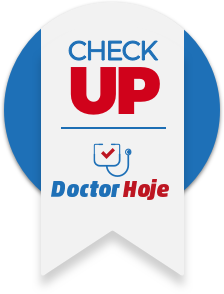
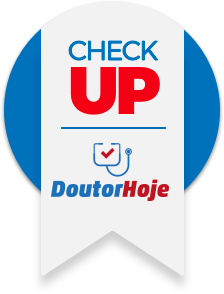
Doctor to Doutor
Troquei imagens e termos no site, só falta alterar nas controllers.

diff --git a/resources/views/agendamentos/minha-conta.blade.php b/resources/views/agendamentos/minha-conta.blade.php
@@ -1,6 +1,6 @@
 @extends('layouts.base')
 
-@section('title', 'DoctorHj: Minha Conta')
+@section('title', 'DoutorHj: Minha Conta')
 
 @push('scripts')
 
@@ -414,8 +414,8 @@
                                                     <p class="titulo">Aproveite seu desconto!</p>
                                                     <p class="texto">Você possui um cupom que garante <strong>10% de
                                                             desconto</strong> no seu primeiro agendamento feito pelo
-                                                        site Doctor Hoje. Aproveite, é por tempo limitado. Na tela de
-                                                        finalização de compra insira o código: <strong>DOCTOR10</strong>
+                                                        site Doutor Hoje. Aproveite, é por tempo limitado. Na tela de
+                                                        finalização de compra insira o código: <strong>DOuTOR10</strong>
                                                     </p>
                                                     <button type="button" class="close-div btn btn-secondary" title="Apagar mensagem">
                                                         <i class="fa fa-trash" aria-hidden="true"></i></button>
@@ -496,8 +496,8 @@
                             <div class="tab-pane fade" id="v-pills-sugestoes" role="tabpanel" aria-labelledby="v-pills-settings-tab">
                                 <div class="row">
                                     <div class="col-md-12 col-lg-6">
-                                        <span class="label-titulo">Avalie o Doctor Hoje</span>
-                                        <p>Deixe sua avaliação e nos ajude a deixar o Doctor Hoje melhor ainda.</p>
+                                        <span class="label-titulo">Avalie o Doutor Hoje</span>
+                                        <p>Deixe sua avaliação e nos ajude a deixar o Doutor Hoje melhor ainda.</p>
                                         <p>Dê uma nota de 1 a 5 estrelas para cada tópico abaixo, sendo 1 para
                                             péssimo e
                                             5 para excelente.</p>
@@ -579,7 +579,7 @@
                                     </div>
                                     <div class="col-md-12 col-lg-6">
                                         <span class="label-titulo">Mais alguma sugestão?</span>
-                                        <p>Deixe sua avaliação e nos ajude a deixar o Doctor Hoje melhor ainda.</p>
+                                        <p>Deixe sua avaliação e nos ajude a deixar o Doutor Hoje melhor ainda.</p>
                                         <form>
                                             <div class="form-group">
                                                 <textarea class="form-control" id="textareaSugestao" rows="6"></textarea>
@@ -594,7 +594,7 @@
 
                             <div class="tab-pane fade" id="v-pills-sair" role="tabpanel" aria-labelledby="v-pills-settings-tab">
                                 <div class="itens-sair">
-                                    <span class="label-titulo">Obrigado por usar o Doctor Hoje</span>
+                                    <span class="label-titulo">Obrigado por usar o Doutor Hoje</span>
                                 </div>
                                 <div class="itens-sair">
                                     <img src="/libs/home-template/img/doctor-hoje-notebook.png" alt="">

diff --git a/resources/views/auth/login.blade.php b/resources/views/auth/login.blade.php
@@ -1,6 +1,6 @@
 @extends('layouts.base')
 
-@section('title', 'DoctorHJ: Login')
+@section('title', 'DoutorHJ: Login')
 
 @push('scripts')
 
@@ -153,7 +153,7 @@
                                         <input type="checkbox" class="form-check-input" id="termoCheck" required="required">
                                         <label class="form-check-label" for="termoCheck">Declaro que li e concordo com
                                             os <a href="#" data-toggle="modal" data-target="#modalTermos">termos de uso
-                                                do Doctor Hoje</a></label>
+                                                do Doutor Hoje</a></label>
                                     </div>
                                     <div class="form-check fc-checkbox">
                                         <input type="checkbox" class="form-check-input" id="termoAnuidade" required="required">
@@ -191,7 +191,7 @@
                     if ($('#inputEmailTelefone').val().length < 15) {
                         swal(
                             {
-                                title: '<div class="tit-sweet tit-error"><i class="fa fa-times-circle" aria-hidden="true"></i> DoctorHoje Informa:</div>',
+                                title: '<div class="tit-sweet tit-error"><i class="fa fa-times-circle" aria-hidden="true"></i> DoutorHoje Informa:</div>',
                                 text: 'O telefone informado não é válido'
                             }
                         );
@@ -227,7 +227,7 @@
 
                                 swal(
                                     {
-                                        title: '<div class="tit-sweet tit-error"><i class="fa fa-times-circle" aria-hidden="true"></i> DoctorHoje Informa:</div>',
+                                        title: '<div class="tit-sweet tit-error"><i class="fa fa-times-circle" aria-hidden="true"></i> DoutorHoje Informa:</div>',
                                         text: result.mensagem
                                     }
                                 );

diff --git a/resources/views/includes/checkup-section-landing.blade.php b/resources/views/includes/checkup-section-landing.blade.php
@@ -25,7 +25,7 @@
                                 </div>
                                 <div class="col-md-4">
                                     <p class="vlr-drhj">R$ 350,00</p>
-                                    <p>Valor DoctorHJ</p>
+                                    <p>Valor DoutorHJ</p>
                                 </div>
                                 <div class="col-md-3">
                                     <p class="txtPorcentagem">Economize</p>
@@ -63,7 +63,7 @@
                                 </div>
                                 <div class="col-md-4">
                                     <p class="vlr-drhj">R$ 438,00</p>
-                                    <p>Valor DoctorHJ</p>
+                                    <p>Valor DoutorHJ</p>
                                 </div>
                                 <div class="col-md-3">
                                     <p class="txtPorcentagem">Economize</p>
@@ -113,7 +113,7 @@
                                 </div>
                                 <div class="col-md-4">
                                     <p class="vlr-drhj">R$ {{ number_format( $checkupMasculino->itemCheckups->sum('vl_com_checkup'),  2, ',', '.')  }}</p>
-                                    <p>Valor DoctorHJ</p>
+                                    <p>Valor DoutorHJ</p>
                                 </div>
                                 <div class="col-md-3">
                                     <p class="txtPorcentagem">Economize</p>
@@ -151,7 +151,7 @@
                                 </div>
                                 <div class="col-md-4">
                                     <p class="vlr-drhj">R$ {{ number_format( $checkupFeminino->itemCheckups->sum('vl_com_checkup'),  2, ',', '.')  }}</p>
-                                    <p>Valor DoctorHJ</p>
+                                    <p>Valor DoutorHJ</p>
                                 </div>
                                 <div class="col-md-3">
                                     <p class="txtPorcentagem">Economize</p>

diff --git a/resources/views/checkup/resultado.blade.php b/resources/views/checkup/resultado.blade.php
@@ -1,5 +1,5 @@
 @extends('layouts.base')
-@section('title', 'DoctorHoje: Resultado')
+@section('title', 'DoutorHoje: Resultado')
 
 @push('scripts')
 	<script>
@@ -96,11 +96,11 @@
                                                           <span>R$ {{$checkup['total_vl_mercado']}}</span>
                                                       </div>
                                                       <div class="drhj">
-                                                          <p>Procedimentos individuais no Doctor Hoje</p>
+                                                          <p>Procedimentos individuais no Doutor Hoje</p>
                                                           <span>R$ {{$checkup['total_vl_individual']}}</span>
                                                       </div>
                                                       <div class="checkup">
-                                                          <p>Valor do Checkup DoctorHJ</p>
+                                                          <p>Valor do Checkup DoutorHJ</p>
                                                           <span>R$ {{$checkup['total_com_checkup']}}</span>
                                                           
                                                           <input type="hidden" id="vl_total_checkup" name="vl_total_checkup" value="{{ $checkup['total_com_checkup'] }}">

diff --git a/resources/views/itemmenus/index.blade.php b/resources/views/itemmenus/index.blade.php
@@ -1,6 +1,6 @@
 @extends('layouts.master')
 
-@section('title', 'Doctor HJ: Itens de Menu')
+@section('title', 'Doutor HJ: Itens de Menu')
 
 @section('container')
 <div class="container-fluid">
@@ -8,7 +8,7 @@
 	<div class="row">
 		<div class="col-sm-12">
 			<div class="page-title-box">
-				<h4 class="page-title">Doctor HJ</h4>
+				<h4 class="page-title">Doutor HJ</h4>
 				<ol class="breadcrumb float-right">
 					<li class="breadcrumb-item"><a href="/">Home</a></li>
 					<li class="breadcrumb-item"><a href="#">Cadastros</a></li>

diff --git a/resources/views/emails/paciente_verificacao_conta.blade.php b/resources/views/emails/paciente_verificacao_conta.blade.php
@@ -1,9 +1,9 @@
 <!DOCTYPE html>
 <html>
 <head>
-	<title>DoctorHoje Ativação</title>
+	<title>DoutorHoje Ativação</title>
 </head>
 <body>
-	<h2><a href="{{ route('ativar_conta', $verify_hash) }}">Clique no link aqui para Ativar sua conta DoctorHoje</a></h2>
+	<h2><a href="{{ route('ativar_conta', $verify_hash) }}">Clique no link aqui para Ativar sua conta DoutorHoje</a></h2>
 </body>
 </html>

diff --git a/resources/views/agendamentos/edit.blade.php b/resources/views/agendamentos/edit.blade.php
@@ -7,7 +7,7 @@
 	<div class="row">
 		<div class="col-sm-12">
 			<div class="page-title-box">
-				<h4 class="page-title">Doctor HJ</h4>
+				<h4 class="page-title">Doutor HJ</h4>
 				<ol class="breadcrumb float-right">
 					<li class="breadcrumb-item"><a href="/">Home</a></li>
 					<li class="breadcrumb-item"><a href="{{ route('prestadores.index') }}">Lista de Prestadores</a></li>

diff --git a/resources/views/agendamentos/show.blade.php b/resources/views/agendamentos/show.blade.php
@@ -7,7 +7,7 @@
 	<div class="row">
 		<div class="col-sm-12">
 			<div class="page-title-box">
-				<h4 class="page-title">Doctor HJ</h4>
+				<h4 class="page-title">Doutor HJ</h4>
 				<ol class="breadcrumb float-right">
 					<li class="breadcrumb-item"><a href="/">Home</a></li>
 					<li class="breadcrumb-item"><a href="{{ route('prestadores.index') }}">Lista de Prestadores</a></li>

diff --git a/resources/views/itemmenus/create.blade.php b/resources/views/itemmenus/create.blade.php
@@ -7,7 +7,7 @@
 	<div class="row">
 		<div class="col-sm-12">
 			<div class="page-title-box">
-				<h4 class="page-title">Doctor HJ</h4>
+				<h4 class="page-title">Doutor HJ</h4>
 				<ol class="breadcrumb float-right">
 					<li class="breadcrumb-item"><a href="/">Home</a></li>
 					<li class="breadcrumb-item"><a href="{{ route('itemmenus.index') }}">Lista de Itens</a></li>

diff --git a/resources/views/itemmenus/edit.blade.php b/resources/views/itemmenus/edit.blade.php
@@ -7,7 +7,7 @@
 	<div class="row">
 		<div class="col-sm-12">
 			<div class="page-title-box">
-				<h4 class="page-title">Doctor HJ</h4>
+				<h4 class="page-title">Doutor HJ</h4>
 				<ol class="breadcrumb float-right">
 					<li class="breadcrumb-item"><a href="/">Home</a></li>
 					<li class="breadcrumb-item"><a href="{{ route('itemmenus.index') }}">Itens de Menus</a></li>

diff --git a/resources/views/itemmenus/show.blade.php b/resources/views/itemmenus/show.blade.php
@@ -7,7 +7,7 @@
 	<div class="row">
 		<div class="col-sm-12">
 			<div class="page-title-box">
-				<h4 class="page-title">Doctor HJ</h4>
+				<h4 class="page-title">Doutor HJ</h4>
 				<ol class="breadcrumb float-right">
 					<li class="breadcrumb-item"><a href="/">Home</a></li>
 					<li class="breadcrumb-item"><a href="{{ route('itemmenus.index') }}">Itens de Menu</a></li>

diff --git a/resources/views/errors/404.blade.php b/resources/views/errors/404.blade.php
@@ -256,7 +256,7 @@
                 </div>
             </div>
             <div class="endereco-site">
-                <a href="{{ route('landing-page') }}">doctorhoje.com.br</a>
+                <a href="{{ route('landing-page') }}">doutorhoje.com.br</a>
             </div>
         </footer>        
     </div>
